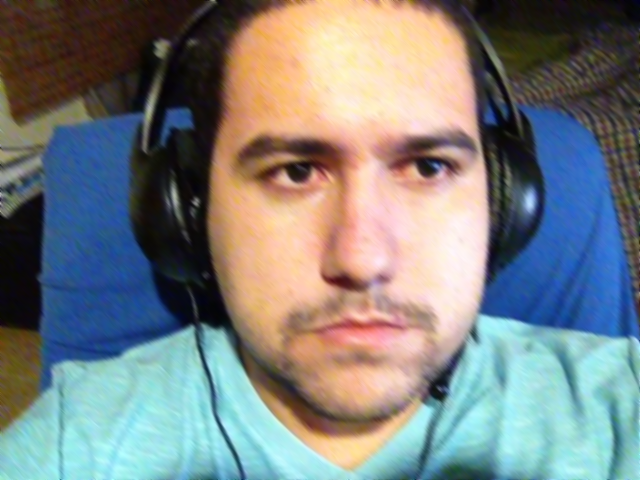
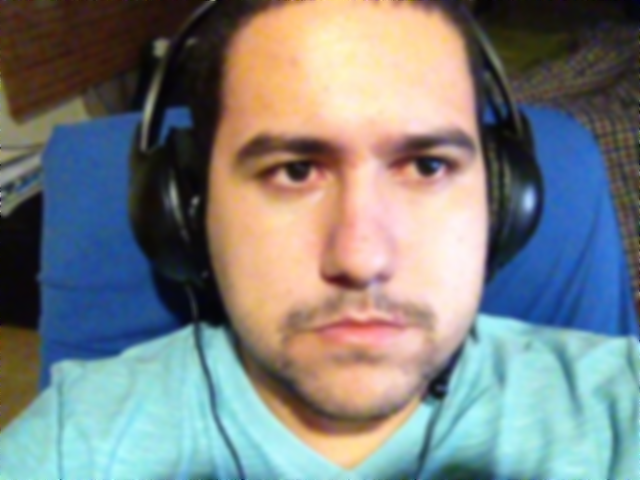
Construtor de vetor de pixels acertado; gaussiana aparentemente funcionando

diff --git a/Filtros/teste.py b/Filtros/teste.py
@@ -1,26 +1,28 @@
 from proc_img import *
 
 
-myImg = MyImg("face.png")
+myImg = MyImg("face2.JPG")
 
 simple3CFilters = Simple3ChannelsFilters()
 
 complexFilters = ComplexFilters()
 
-myImg.setColorGrayScale()
-myImg.applyComplexFilter(complexFilters.gaussian, [1.5], 3)
+"""myImg.setColorGrayScale()
+myImg.applyComplexFilter(complexFilters.gaussian, [1.5], 5)
 myImg.save()
-myImg.applyComplexFilter(complexFilters.gaussian, [1.5], 3)
+myImg.applyComplexFilter(complexFilters.gaussian, [1.5], 5)
 myImg.save()
 myImg.applyComplexFilter(complexFilters.sobel,[])
-myImg.save()
-myImg.applyComplexFilter(complexFilters.gaussian, [1.5], 3)
-myImg.save()
+myImg.save()"""
 
-#complex3CFilters = Complex3ChannelsFilters()
+complex3CFilters = Complex3ChannelsFilters()
 
-#myImg.applyComplex3ChannelsFilters(complex3CFilters.gaussianRGB, [], 5)
-#myImg.save()
+myImg.applyComplex3ChannelsFilters(complex3CFilters.gaussianRGB, [], 5)
+myImg.save()
+myImg.applyComplex3ChannelsFilters(complex3CFilters.gaussianRGB, [], 5)
+myImg.save()
+myImg.applySimple3ChannelsFilters(simple3CFilters.skin,[])
+myImg.save()
 
 
 RGB=[123,121,158]

diff --git a/Filtros/proc_img.py b/Filtros/proc_img.py
@@ -39,13 +39,15 @@ class MyImg:
 		neighbors = window/2
 		pixelsVector = []
 		pixelsVector.append(pixels[x,y])
-		for i in range(window-1):
-			for j in range(window-1):
-				if (neighbors+i != neighbors+j):
+		for i in range(window):
+			for j in range(window):
+				if (neighbors-i != 0 or neighbors-j != 0):
 					try:
-						pixelsVector.append(pixels[x-neighbors+i,y-neighbors+i])
+						pixelsVector.append(pixels[x-(neighbors-i),y-(neighbors-j)])
+						#print "(",x-neighbors-i,",",y-neighbors-j,") ",
 					except IndexError:
-						pass
+						pixelsVector.append(pixelsVector[-1])
+		#print ""
 		return pixelsVector
 
 
@@ -73,8 +75,11 @@ class MyImg:
 		self.pixels = self.img.load()
 		self.copyImg = self.img.copy()
 		self.copyPixels = self.copyImg.load()
-		for x in range(1,self.width-1):
-			for y in range(1,self.height-1):
+		adjust = 1
+		if (window > 3):
+			adjust = 0
+		for x in range(adjust,self.width-adjust):
+			for y in range(adjust,self.height-adjust):
 
 				"""
 					| i=2 | i=5 | i=4 |

diff --git a/Filtros/filtros.py b/Filtros/filtros.py
@@ -84,11 +84,11 @@ class ComplexFilters:
 		ret = 0
 		sumRet = 0
 		for i in range(1, len(pixels)):
-			#if (i%2==0):
-			#	d = 2
-			#else:
-			#	d = 1 
-			d = (pixels[i]-pixels[0])/255.0
+			if (i%2==0):
+				d = 1
+			else:
+				d = 1 
+			#d = (pixels[i]-pixels[0])/255.0
 			w = gaussianFunc(dp, d)
 			ret += pixels[i]*w
 			sumRet += w
@@ -96,7 +96,7 @@ class ComplexFilters:
 			ret = ret / sumRet
 		except ZeroDivisionError:
 			print "Erro: desvio padrão muito pequeno"
-			ret = pixel[0]
+			ret = pixels[0]
 		return ret
 
 	def median(self, pixels):
